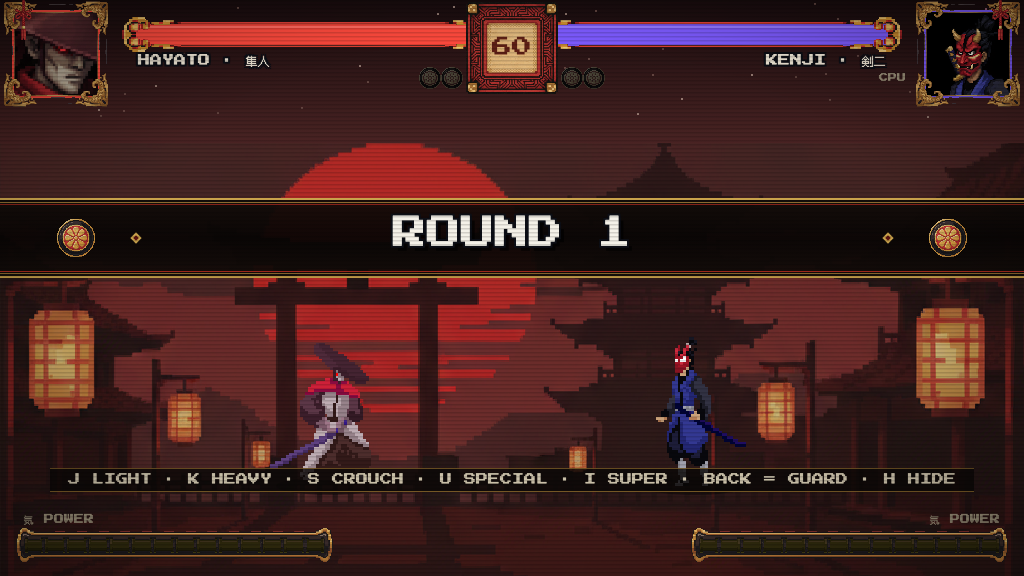
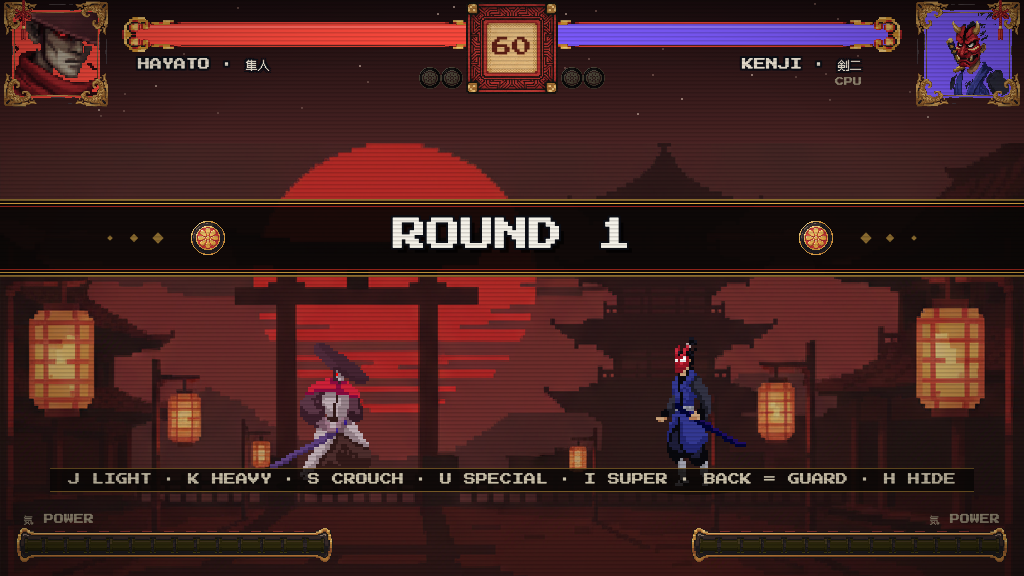
UI 打磨 R7 收尾: 横带定稿/HUD 留白重切/碰撞与溢出修复/成组立绘 4 候选
- 公告横带定稿: 家纹章紧贴文字两侧+三粒金菱渐隐拖尾, 文字基线重算至带正中, 设为默认
- HUD 头像重切 336px 源: 脸占框 ~57%+头顶留白, 帽檐/鬼角完整入框
- HUD 名字让位: 右侧名字撞血条端头卷纹 → 862 右对齐, CPU 标签随移
- 结算屏: 台词框随文字自适应宽度(长台词溢出修复), MAX COMBO 单数 1 HIT
- 成组立绘候选统一命名 c1-c4(替换 a/b/cc), 新增 c4, 审阅页 G 区改 4 选 1(荐 G4)
- mockups/r7 全量更新为最新实机截图

diff --git a/js/ui.js b/js/ui.js
@@ -230,10 +230,10 @@ const UI = {
       }
     }
 
-    // names
-    this.pixText(ctx, `${f1.c.name} · ${f1.c.cn}`, 138, 66, { size: 12, color: '#efe6d5', outline: true });
-    this.pixText(ctx, `${f2.c.name} · ${f2.c.cn}`, 886, 66, { size: 12, color: '#efe6d5', align: 'right', outline: true });
-    if (G.p2IsAI) this.pixText(ctx, 'CPU', 906, 82, { size: 9, color: '#9a8f78', align: 'right' });
+    // names (right one pulled clear of the hp-frame end-scroll ornament)
+    this.pixText(ctx, `${f1.c.name} · ${f1.c.cn}`, 138, 70, { size: 12, color: '#efe6d5', outline: true });
+    this.pixText(ctx, `${f2.c.name} · ${f2.c.cn}`, 862, 70, { size: 12, color: '#efe6d5', align: 'right', outline: true });
+    if (G.p2IsAI) this.pixText(ctx, 'CPU', 862, 86, { size: 9, color: '#9a8f78', align: 'right' });
 
     // round pips
     for (let i = 0; i < 2; i++) {
@@ -503,37 +503,34 @@ const UI = {
   // 'band' cinematic full-width lacquer band, 'plaque' wooden board
   annBack(ctx, cx, cy, w, mainSize) {
     if (this.ann === 'band') {
-      // ornamented lacquer band: gradient body, double gold + red hairlines,
-      // kamon crest medallions flanking, corner notches
-      const h = mainSize + 46, top = cy - h / 2;
-      const gr = ctx.createLinearGradient(0, top, 0, top + h);
-      gr.addColorStop(0, 'rgba(18,12,9,0.94)');
-      gr.addColorStop(0.5, 'rgba(8,5,4,0.94)');
-      gr.addColorStop(1, 'rgba(18,12,9,0.94)');
-      ctx.fillStyle = gr;
-      ctx.fillRect(0, top, 1024, h);
-      ctx.fillStyle = '#c9a24b';
-      ctx.fillRect(0, top, 1024, 2);
-      ctx.fillRect(0, top + h - 2, 1024, 2);
+      const h = mainSize + 44;
+      ctx.fillStyle = 'rgba(10,7,6,0.9)';
+      ctx.fillRect(0, cy - h / 2, 1024, h);
+      // double gold frame + inner vermillion hairline
       ctx.fillStyle = '#8a6a2f';
-      ctx.fillRect(0, top + 4, 1024, 1);
-      ctx.fillRect(0, top + h - 5, 1024, 1);
+      ctx.fillRect(0, cy - h / 2, 1024, 2);
+      ctx.fillRect(0, cy + h / 2 - 2, 1024, 2);
+      ctx.fillStyle = '#d9a441';
+      ctx.fillRect(0, cy - h / 2 + 4, 1024, 1);
+      ctx.fillRect(0, cy + h / 2 - 5, 1024, 1);
       ctx.fillStyle = 'rgba(179,43,32,0.85)';
-      ctx.fillRect(0, top + 6, 1024, 1);
-      ctx.fillRect(0, top + h - 7, 1024, 1);
+      ctx.fillRect(0, cy - h / 2 + 7, 1024, 1);
+      ctx.fillRect(0, cy + h / 2 - 8, 1024, 1);
+      // kamon medallions flanking the text, diamond accents trailing out
       const M = this.ua.pipmon;
-      if (M) {
-        const d = Math.min(38, h - 20), mh = d * M.h / M.w;
-        ctx.globalAlpha = 0.92;
-        ctx.drawImage(M.cv, 76 - d / 2, cy - mh / 2, d, mh);
-        ctx.drawImage(M.cv, 948 - d / 2, cy - mh / 2, d, mh);
-        ctx.globalAlpha = 1;
-        // small gold diamonds inside the crests
-        for (const nx of [136, 888]) {
+      const mx = w / 2 + 24;
+      for (const dir of [-1, 1]) {
+        if (M) {
+          const d = 34, mh = d * M.h / M.w;
+          ctx.drawImage(M.cv, cx + dir * mx - d / 2, cy - mh / 2, d, mh);
+        }
+        ctx.fillStyle = '#8a6a2f';
+        for (let i = 1; i <= 3; i++) {
+          const s2 = 5 - i;
           ctx.save();
-          ctx.translate(nx, cy); ctx.rotate(Math.PI / 4);
-          ctx.fillStyle = '#c9a24b'; ctx.fillRect(-4, -4, 8, 8);
-          ctx.fillStyle = '#5a1210'; ctx.fillRect(-2, -2, 4, 4);
+          ctx.translate(cx + dir * (mx + 26 + i * 24), cy);
+          ctx.rotate(Math.PI / 4);
+          ctx.fillRect(-s2, -s2, s2 * 2, s2 * 2);
           ctx.restore();
         }
       }
@@ -571,13 +568,14 @@ const UI = {
       ctx.restore();
     } else if (a.style === 'round') {
       const slide = Math.max(0, 10 - a.t) * 16;
-      this.annBack(ctx, cx, cy - 12, 560, 34); // anchored on the text's visual center
-      this.pixText(ctx, a.text, cx - slide, cy, { size: 34, align: 'center', color: '#f4f1e8', outline: true, shadow: 5 });
-      if (a.sub) this.pixText(ctx, a.sub, cx + slide, cy + 32, { size: 15, align: 'center', color: '#ffc531', outline: true });
+      // band center = cy-12; baseline = center + 0.42em so text sits dead center
+      this.annBack(ctx, cx, cy - 12, 560, 34);
+      this.pixText(ctx, a.text, cx - slide, cy + 2, { size: 34, align: 'center', color: '#f4f1e8', outline: true, shadow: 5 });
+      if (a.sub) this.pixText(ctx, a.sub, cx + slide, cy + 40, { size: 15, align: 'center', color: '#ffc531', outline: true });
     } else { // banner
       this.annBack(ctx, cx, cy - 10, 640, 30);
-      this.pixText(ctx, a.text, cx, cy, { size: 30, align: 'center', color: '#f4f1e8', outline: true, shadow: 5 });
-      if (a.sub) this.pixText(ctx, a.sub, cx, cy + 38, { size: 16, align: 'center', color: '#ffc531', outline: true });
+      this.pixText(ctx, a.text, cx, cy + 3, { size: 30, align: 'center', color: '#f4f1e8', outline: true, shadow: 5 });
+      if (a.sub) this.pixText(ctx, a.sub, cx, cy + 42, { size: 16, align: 'center', color: '#ffc531', outline: true });
     }
     ctx.globalAlpha = 1;
   },
@@ -770,8 +768,7 @@ const UI = {
       this.pixText(ctx, en, 512 - total / 2, cyRow, {
         size: 16, baseline: 'middle', color: sel ? '#ffe27a' : (MP ? '#b3a68d' : '#9aa3bd'), outline: sel,
       });
-      // JP glyphs in FusionPixelJA sit lower than PressStart at the same
-      // middle-baseline — lift 3px so both scripts share the optical center
+      // FusionPixel kanji hang lower in the em than PressStart caps — lift 3px
       this.pixText(ctx, jp, 512 - total / 2 + enW + gap, cyRow - 3, {
         size: 16, baseline: 'middle', color: sel ? '#ffc531' : '#8a6a2f', outline: sel,
       });
@@ -915,12 +912,11 @@ const UI = {
       ctx.globalAlpha = 1;
       const NP = this.ua.nameplate;
       if (NP) ctx.drawImage(NP.cv, x + 44, 328, 232, 232 * NP.h / NP.w);
-      // name = EN + JP on one plate-centered line (policy: names bilingual);
-      // no epithet small-print below — just name, type and stats
+      // name = EN + JP only (epithet line dropped per review); attributes EN
       this.pixText(ctx, `${c.name} · ${c.cn}`, x + 160, 350, { size: 16, align: 'center', color: hovered || chosen ? c.theme : '#c9bfa8', outline: true, maxW: 214 });
-      this.pixText(ctx, `${c.type} TYPE`, x + 160, 381, { size: 10, align: 'center', color: '#9a8f78', spacing: 2 });
-      this.statBar(ctx, x + 66, 398, 'POW', c.stats.pow, c.theme);
-      this.statBar(ctx, x + 66, 418, 'SPD', c.stats.spd, c.theme);
+      this.pixText(ctx, `${c.type} TYPE`, x + 160, 382, { size: 10, align: 'center', color: '#9a8f78', spacing: 2 });
+      this.statBar(ctx, x + 66, 400, 'POW', c.stats.pow, c.theme);
+      this.statBar(ctx, x + 66, 420, 'SPD', c.stats.spd, c.theme);
       if (hovered && G.tick % 30 < 20) {
         this.pixText(ctx, '▼', x + 160, 112, { size: 16, align: 'center', color: '#ffc531' });
       }
@@ -977,25 +973,27 @@ const UI = {
     this.drawBust(ctx, winner.c.id, 384, 246, 256, 190, false);
 
     const RB = this.ua.announce;
-    if (RB || this.ann === 'band') this.annBack(ctx, 512, 114, 640, 46);
-    // baseline = band center + 0.40em puts the cap glyphs dead center of the band
-    this.pixText(ctx, playerWon ? 'VICTORY' : 'DEFEAT', 512, 132, {
+    if (RB) this.annBack(ctx, 512, 114, 640, 46); // band center 114
+    this.pixText(ctx, playerWon ? 'VICTORY' : 'DEFEAT', 512, 133, { // 114 + 0.42em
       size: 46, align: 'center', color: playerWon ? '#ffc531' : '#f4ead6', outline: true, shadow: 6, spacing: 6,
     });
     this.pixText(ctx, playerWon ? '勝利' : '敗北', 512, RB ? 205 : 172, { size: 22, align: 'center', color: '#f4f1e8', outline: true });
 
-    if (this.ua.panel) this.nine(ctx, this.ua.panel, 312, 428, 400, 62, 0.14);
-    else this.panel(ctx, 312, 428, 400, 62, { accent: winner.c.theme });
     // victory quotes in Japanese-flavored English (UI-layer table; data.js untouched)
     const QUOTES_EN = {
       mack: 'The blade... returns to its sheath.',
       kenji: '...Too slow.',
     };
-    this.pixText(ctx, `${winner.c.name}: "${QUOTES_EN[winner.c.id] || winner.c.quoteWin}"`, 512, 466, {
-      size: 14, align: 'center', color: '#dfe4f2', maxW: 370,
+    const quote = `${winner.c.name}: "${QUOTES_EN[winner.c.id] || winner.c.quoteWin}"`;
+    // box hugs the text (long quotes shrank past pixText's size floor and overflowed a fixed box)
+    const qw = Math.min(560, Math.ceil(this.textW(ctx, quote, 13)) + 44);
+    if (this.ua.panel) this.nine(ctx, this.ua.panel, 512 - qw / 2, 428, qw, 62, 0.14);
+    else this.panel(ctx, 512 - qw / 2, 428, qw, 62, { accent: winner.c.theme });
+    this.pixText(ctx, quote, 512, 465, {
+      size: 13, align: 'center', color: '#dfe4f2', maxW: qw - 44,
     });
 
-    this.pixText(ctx, `MAX COMBO: ${G.stats.maxCombo} HITS`, 512, RB ? 236 : 218, { size: 13, align: 'center', color: '#9aa3bd' });
+    this.pixText(ctx, `MAX COMBO: ${G.stats.maxCombo} ${G.stats.maxCombo === 1 ? 'HIT' : 'HITS'}`, 512, RB ? 236 : 218, { size: 13, align: 'center', color: '#9aa3bd' });
 
     this.pixText(ctx, 'J REMATCH · K CHARACTER · ESC TITLE', 512, 530, {
       size: 14, align: 'center', color: G.tick % 40 < 25 ? '#ffe27a' : '#8892ad',
@@ -1068,9 +1066,9 @@ const UI = {
       await Promise.race([document.fonts.load('90px KouzanBrush'), new Promise(r => setTimeout(r, 2500))]);
       return true;
     };
-    // announcement backdrop: DEFAULT = ornamented band (Eric's pick);
-    // ?ann=ink|plaque|ink2 to compare
-    this.ann = ['ink', 'band', 'plaque', 'ink2'].includes(q.get('ann')) ? q.get('ann') : 'band';
+    // announcement backdrop: DEFAULT = decorated lacquer band (Eric's pick);
+    // ?ann=ink|plaque|ink2 keeps the alternatives switchable
+    this.ann = ['ink', 'plaque', 'ink2'].includes(q.get('ann')) ? q.get('ann') : 'band';
     if (this.ann === 'ink2') jobs.announce = () => this._procSimple('announce-brush-slim.png').then(t => this._inkCentroid(t));
     // select-screen dedicated background preview (?selbg=moon)
     this.selbg = q.get('selbg') === 'moon';

diff --git a/assets/ui-lab/audit-r6.html b/assets/ui-lab/audit-r6.html
@@ -36,27 +36,30 @@
 <h2>⓪ R7 更新 — 你的第二轮 6 条（最新）</h2>
 <table>
 <tr><th>#</th><th>问题</th><th>状态</th><th>说明</th></tr>
-<tr><td>1</td><td>标题菜单日语贴底</td><td class="done">✅ 已修</td><td>FusionPixelJA 与 PressStart 的 middle 基线不一致，日语字上提 3px 对齐光学中心</td></tr>
-<tr><td>2+4</td><td>选人立绘占比不成组</td><td class="pick">🔲 待拍板 G</td><td>确认是源图构图差异（剣二窄幅留白 vs 隼人宽帽满幅），裁切调不平 → 按你指示<b>重新生成：两人画进同一张图强制同比例</b>，3 张候选见下方，选一张我拆分接入（选人/VS/结算/HUD 四处头像全部换新）</td></tr>
-<tr><td>3</td><td>HUD 头像太大没留白</td><td class="done">✅ 已修</td><td>切片拉远：脸占框 ~58%、头顶留白，斗笠帽檐/鬼角完整入框（见 s3 图）</td></tr>
-<tr><td>5</td><td>选人屏白色日语小字</td><td class="done">✅ 已删</td><td>称号行（豪剣の侍/疾影の忍）移除，只留「HAYATO · 隼人」名牌 + TYPE + 数值</td></tr>
-<tr><td>6</td><td>横带要装饰性 + 文字居中</td><td class="done">✅ 已修并设为默认</td><td>渐变漆底 + 双金线 + 朱线 + 两端家纹章与金菱缀 + 文字基线重算至正中（见 s4 图）</td></tr>
+<tr><td>1</td><td>标题菜单日语贴底</td><td class="done">✅ 已修</td><td>FusionPixelJA 与 PressStart 的 middle 基线不一致，日语字上提 3px 对齐光学中心（s1）</td></tr>
+<tr><td>2+4</td><td>选人立绘占比不成组</td><td class="pick">🔲 待拍板 G</td><td>确认是源图构图差异（剣二窄幅留白 vs 隼人宽帽满幅），裁切调不平 → 按你指示<b>重新生成：两人画进同一张图，强制同 zoom / 同头位 / 同眼线</b>。4 张候选见下方，选一张我拆分归一后一次性换掉 选人 / VS / 结算 / HUD 四处头像</td></tr>
+<tr><td>3</td><td>HUD 头像太大没留白</td><td class="done">✅ 已修</td><td>重切：脸占框 ~57%、头顶留白，斗笠帽檐 / 鬼角完整入框（s3）；顺手修了右侧名字撞血条端头卷纹的碰撞</td></tr>
+<tr><td>5</td><td>选人屏白色日语小字</td><td class="done">✅ 已删</td><td>称号行移除，只留「HAYATO · 隼人」名牌 + TYPE + POW/SPD（s2）</td></tr>
+<tr><td>6</td><td>横带要装饰性 + 文字居中</td><td class="done">✅ 已修并设为默认</td><td>漆底 + 双金线 + 朱线，<b>家纹章紧贴文字两侧 + 三粒金菱渐隐拖尾</b>，文字基线重算至带正中（s4/s5）</td></tr>
+<tr><td>+</td><td>自查顺手修</td><td class="done">✅</td><td>结算屏台词框改为随文字自适应宽度（长台词此前溢出边框）；MAX COMBO 单数改 1 HIT</td></tr>
 </table>
 <div class="grid2">
 <div class="card"><div class="hd"><b>s1 · 标题（日语居中后）</b></div><img src="mockups/r7/s1-title.png"></div>
-<div class="card"><div class="hd"><b>s3 · HUD（头像留白后）</b></div><img src="mockups/r7/s3-hud.png"></div>
-<div class="card"><div class="hd"><b>s4 · 结算（装饰横带 + 文字正中）</b></div><img src="mockups/r7/s4-result.png"></div>
 <div class="card"><div class="hd"><b>s2 · 选人（删称号小字后）</b></div><img src="mockups/r7/s2-select.png"></div>
+<div class="card"><div class="hd"><b>s3 · HUD（头像留白 + 名字让位后）</b></div><img src="mockups/r7/s3-hud.png"></div>
+<div class="card"><div class="hd"><b>s4 · 结算（装饰横带 + 文字正中 + 自适应台词框）</b></div><img src="mockups/r7/s4-result.png"></div>
 </div>
+<div class="card"><div class="hd"><b>s5 · ROUND 1 公告（装饰横带默认样式）</b></div><img src="mockups/r7/s5-round.png"></div>
 
-<h2>拍板项 G — 成组立绘 3 选 1（同图共生，比例天然一致）</h2>
-<div class="sub" style="padding-bottom:6px">选定后我拆分为独立立绘，一次性替换 选人 / VS / 结算 / HUD 四处头像。我推荐 <b>G3</b>（头位最齐、剪影量最对等）。</div>
+<h2>拍板项 G — 成组立绘 4 选 1（同图共生，比例天然一致）</h2>
+<div class="sub" style="padding-bottom:6px">选定后我拆分为独立立绘并归一，一次性替换 选人 / VS / 结算 / HUD 四处头像。我推荐 <b>G4</b>（头位最齐、眼线同高、体量最对等、细节最干净）。</div>
 <div class="grid2">
-<div class="card"><div class="hd"><b>G1</b></div><img src="portrait-pair-a.png"></div>
-<div class="card"><div class="hd"><b>G2</b>（帽形最戏剧化）</div><img src="portrait-pair-b.png"></div>
-<div class="card"><div class="hd"><b>G3</b>（推荐：头位齐平最干净）</div><img src="portrait-pair-cc.png"></div>
+<div class="card"><div class="hd"><b>G1</b> <span class="warn">剣二背后多出两把刀柄（穿帮）</span></div><img src="portrait-pair-c1.png"></div>
+<div class="card"><div class="hd"><b>G2</b> 干净；剣二微前倾，对峙感最强</div><img src="portrait-pair-c2.png"></div>
+<div class="card"><div class="hd"><b>G3</b> 干净；隼人头位略低于剣二</div><img src="portrait-pair-c3.png"></div>
+<div class="card"><div class="hd"><b>G4</b>（<span class="pick">推荐</span>）头位齐平、最像一组</div><img src="portrait-pair-c4.png"></div>
 </div>
-<div class="sub" style="padding:6px 0 14px">连同上轮未回复的：B 防御冲击波(动 fighter.js)准/不准 · C 选人月夜背景用/不用 · D 屏幕过渡做/不做 · E 小提升(难度光标/logo微动/VS斜切)做/不做。例：回复「G3 B准 C用 D做 E全做」。</div>
+<div class="sub" style="padding:6px 0 14px">连同上轮未回复的：B 防御冲击波(动 fighter.js)准/不准 · C 选人月夜背景用/不用 · D 屏幕过渡做/不做 · E 小提升(难度光标/logo微动/VS斜切)做/不做。例：回复「G4 B准 C用 D做 E全做」。</div>
 </section>
 
 <section>

diff --git a/assets/ui-lab/gen-kit8.py b/assets/ui-lab/gen-kit8.py
@@ -1,7 +1,6 @@
-"""Round-8: regenerate the select busts AS A PAIR in one canvas — both refs
-passed in, model draws them side-by-side at identical zoom/head-size/shoulder
-mass, then we split. Fixes the inherent composition mismatch (kenji narrow
-with margins vs hayato wide-hat full-bleed)."""
+"""Round-8: matched-PAIR regeneration. Both busts painted in ONE image so the
+model enforces identical zoom / head size / eye-line / area occupancy. Designs
+must stay 100% faithful to the two approved references."""
 import json, base64, urllib.request, os, time
 
 KEY = os.environ['GEMINI_API_KEY']
@@ -10,32 +9,29 @@ URL = f"https://generativelanguage.googleapis.com/v1beta/models/gemini-2.5-flash
 def b64(p): return base64.b64encode(open(p, 'rb').read()).decode()
 
 PROMPT = (
-    "Draw a TWO-PANEL character-select portrait pair for a fighting game, one canvas split "
-    "into a left half and a right half, both panels painted by the same artist in the same "
-    "16-bit painterly pixel-art style.\n"
-    "LEFT panel: the cloaked swordsman from the FIRST reference image - keep his design 100%: "
-    "wide thin dark-plum lacquered disc hat tilted low, pale mask-like white face, narrow "
-    "glowing RED eyes, crimson scarf knotted at the neck, bone-grey robe.\n"
-    "RIGHT panel: the oni-masked ninja from the SECOND reference image - keep his design 100%: "
-    "red oni mask with gold horns, black spiky hair, indigo shinobi garb, blade on his back.\n"
-    "CRITICAL - the two portraits must be a perfectly MATCHED SET: identical zoom level, "
-    "identical head size, head centers at the same height, similar shoulder width and "
-    "silhouette mass, both head-and-shoulders busts with the same amount of breathing room "
-    "around them, each centered in its own half. Hayato's wide hat may be cropped equally on "
-    "both sides if needed. Both face slightly toward each other (left one faces right, right "
-    "one faces left). Flat near-black background (#0a0a0c) in both panels, a thin 4-pixel "
-    "black gap between panels, no text, no watermark, wide 2:1 composition."
+    "ONE image containing TWO bust portraits side by side as a MATCHED character-select pair "
+    "for the same fighting game. Hard requirements: IDENTICAL zoom, identical head size, "
+    "identical vertical eye-line, and each subject occupies the SAME visual area within his "
+    "half of the canvas, with similar breathing room around both heads.\n"
+    "LEFT half: the cloaked swordsman from the FIRST reference - keep his design exactly: "
+    "wide thin dark-plum lacquered disc hat worn tilted, pale mask-like white face, narrow "
+    "glowing RED eyes, crimson scarf knotted at the neck with trailing tails, bone-grey robe.\n"
+    "RIGHT half: the oni-masked ninja from the SECOND reference - keep his design exactly: "
+    "red oni mask with gold horns, black topknot hair, indigo shinobi garb, blade on back.\n"
+    "Both waist-up, 3/4 view, facing INWARD toward each other. Same painterly 16-bit pixel "
+    "art shading as the references, crisp pixels, flat near-black background (#0a0a0c), no "
+    "text, no watermark, no divider line between the halves.",
 )
 
 os.chdir(os.path.dirname(os.path.abspath(__file__)))
 parts = [
-    {"text": PROMPT},
+    {"text": PROMPT[0]},
     {"inline_data": {"mime_type": "image/png", "data": b64('portrait-hayato-bust.png')}},
     {"inline_data": {"mime_type": "image/png", "data": b64('ref-kenji-bust.png')}},
 ]
 body = json.dumps({"contents": [{"parts": parts}],
                    "generationConfig": {"responseModalities": ["IMAGE"]}}).encode()
-for c in range(1, 4):
+for c in range(1, 5):
     out = f"portrait-pair-c{c}.png"
     if os.path.exists(out):
         print('skip', out); continue
